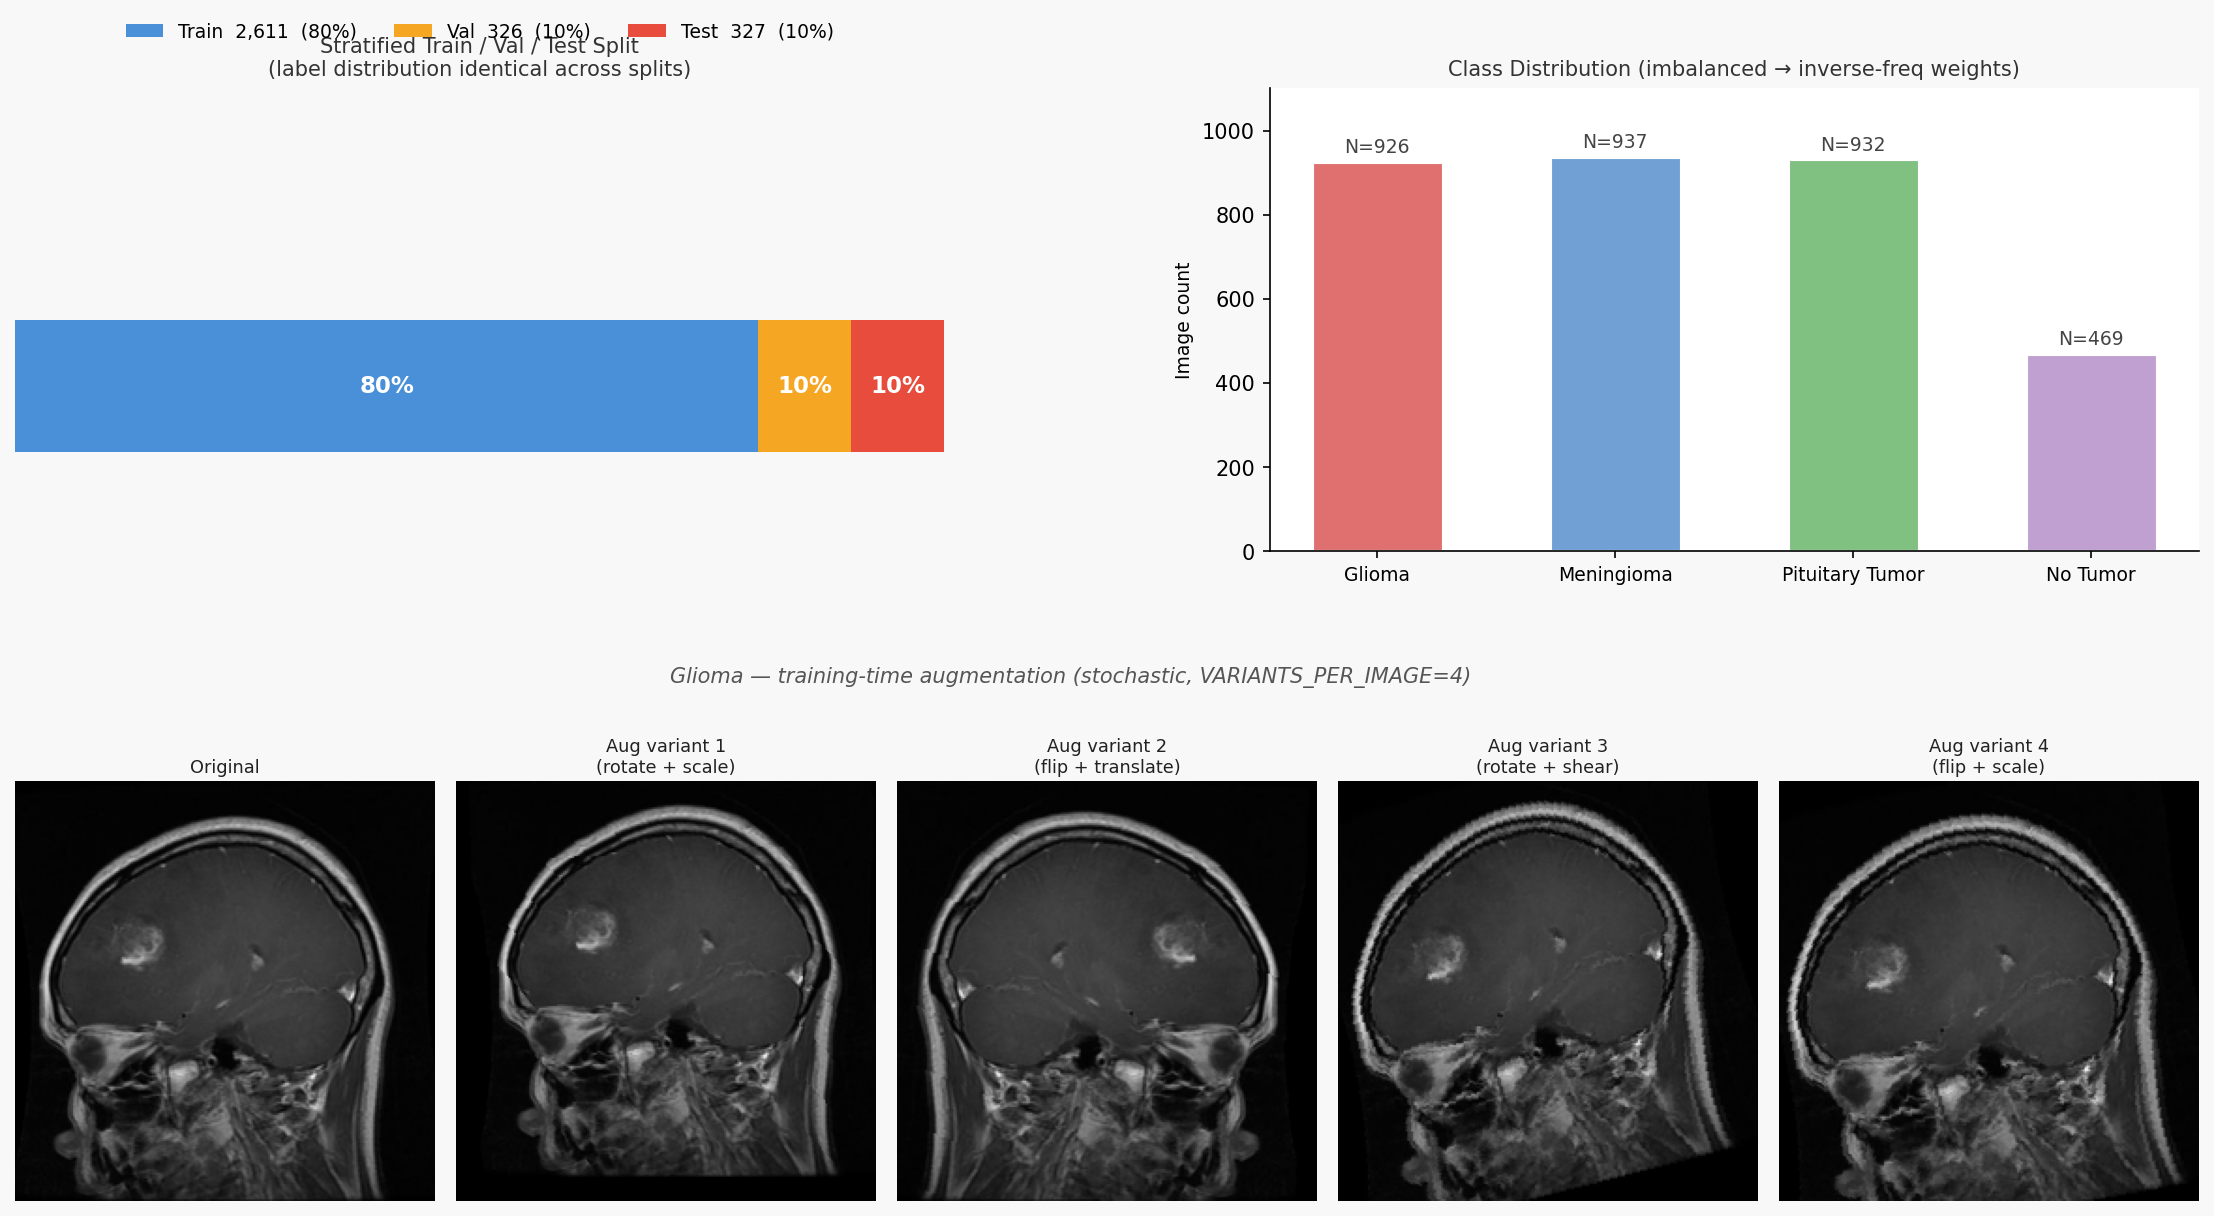
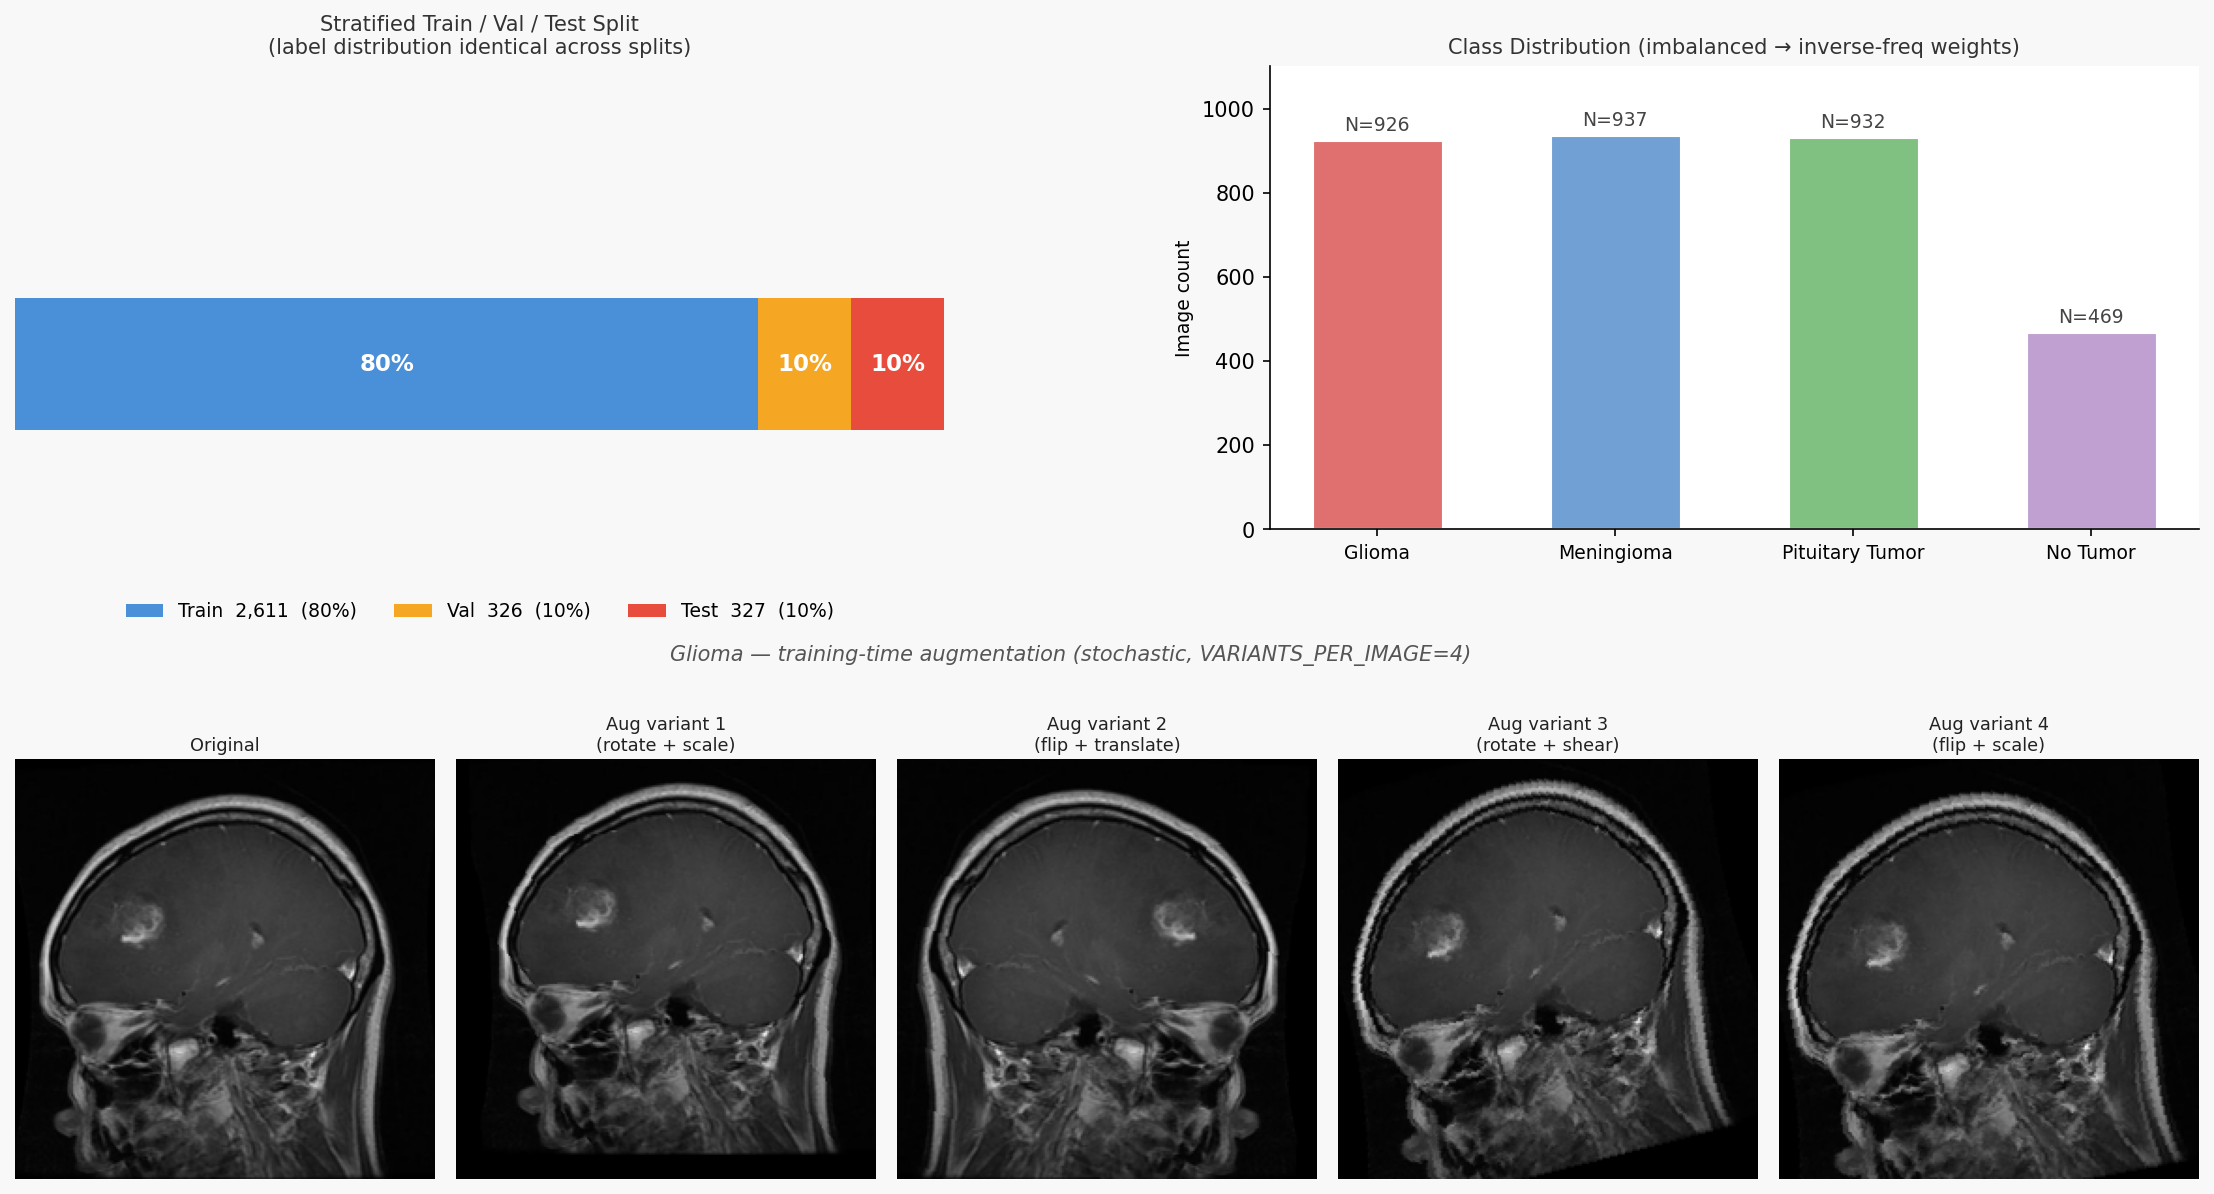
updated overlap issue in a fig

diff --git a/figures/generate_readme_figures.py b/figures/generate_readme_figures.py
@@ -130,7 +130,7 @@ def make_pipeline_figure():
     ax_split.set_xlim(0, 1)
     ax_split.set_ylim(-0.5, 0.9)
     ax_split.axis("off")
-    ax_split.legend(loc="upper center", bbox_to_anchor=(0.5, 1.18),
+    ax_split.legend(loc="upper center", bbox_to_anchor=(0.5, -0.12),
                     ncol=3, fontsize=9, frameon=False)
     ax_split.set_title("Stratified Train / Val / Test Split\n(label distribution identical across splits)",
                         fontsize=10, color="#333333")
